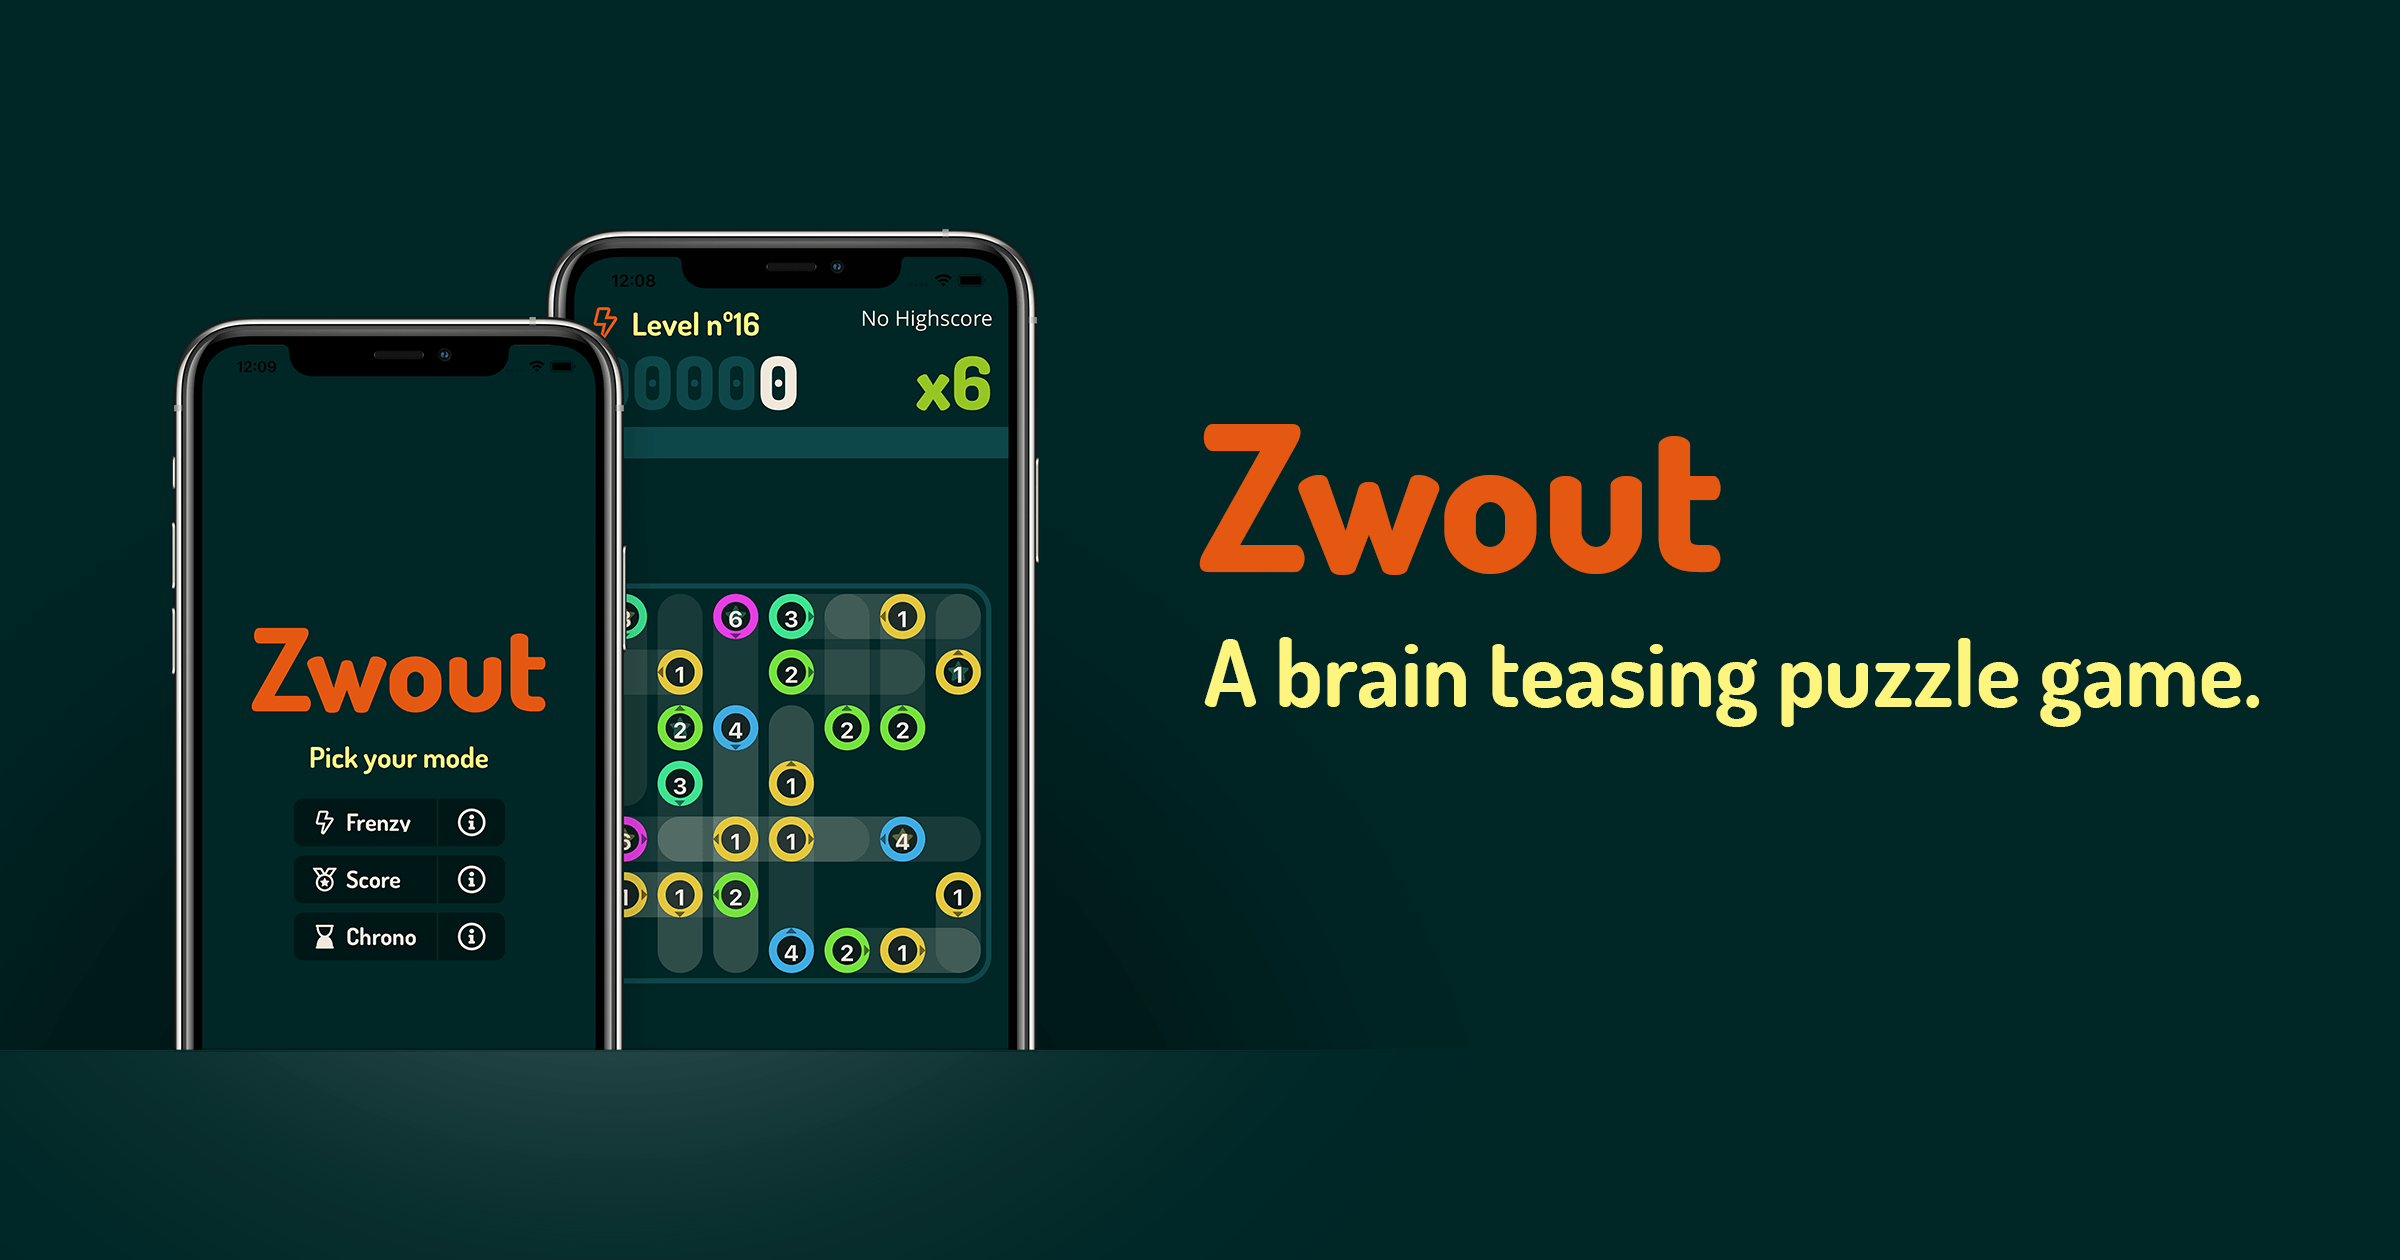
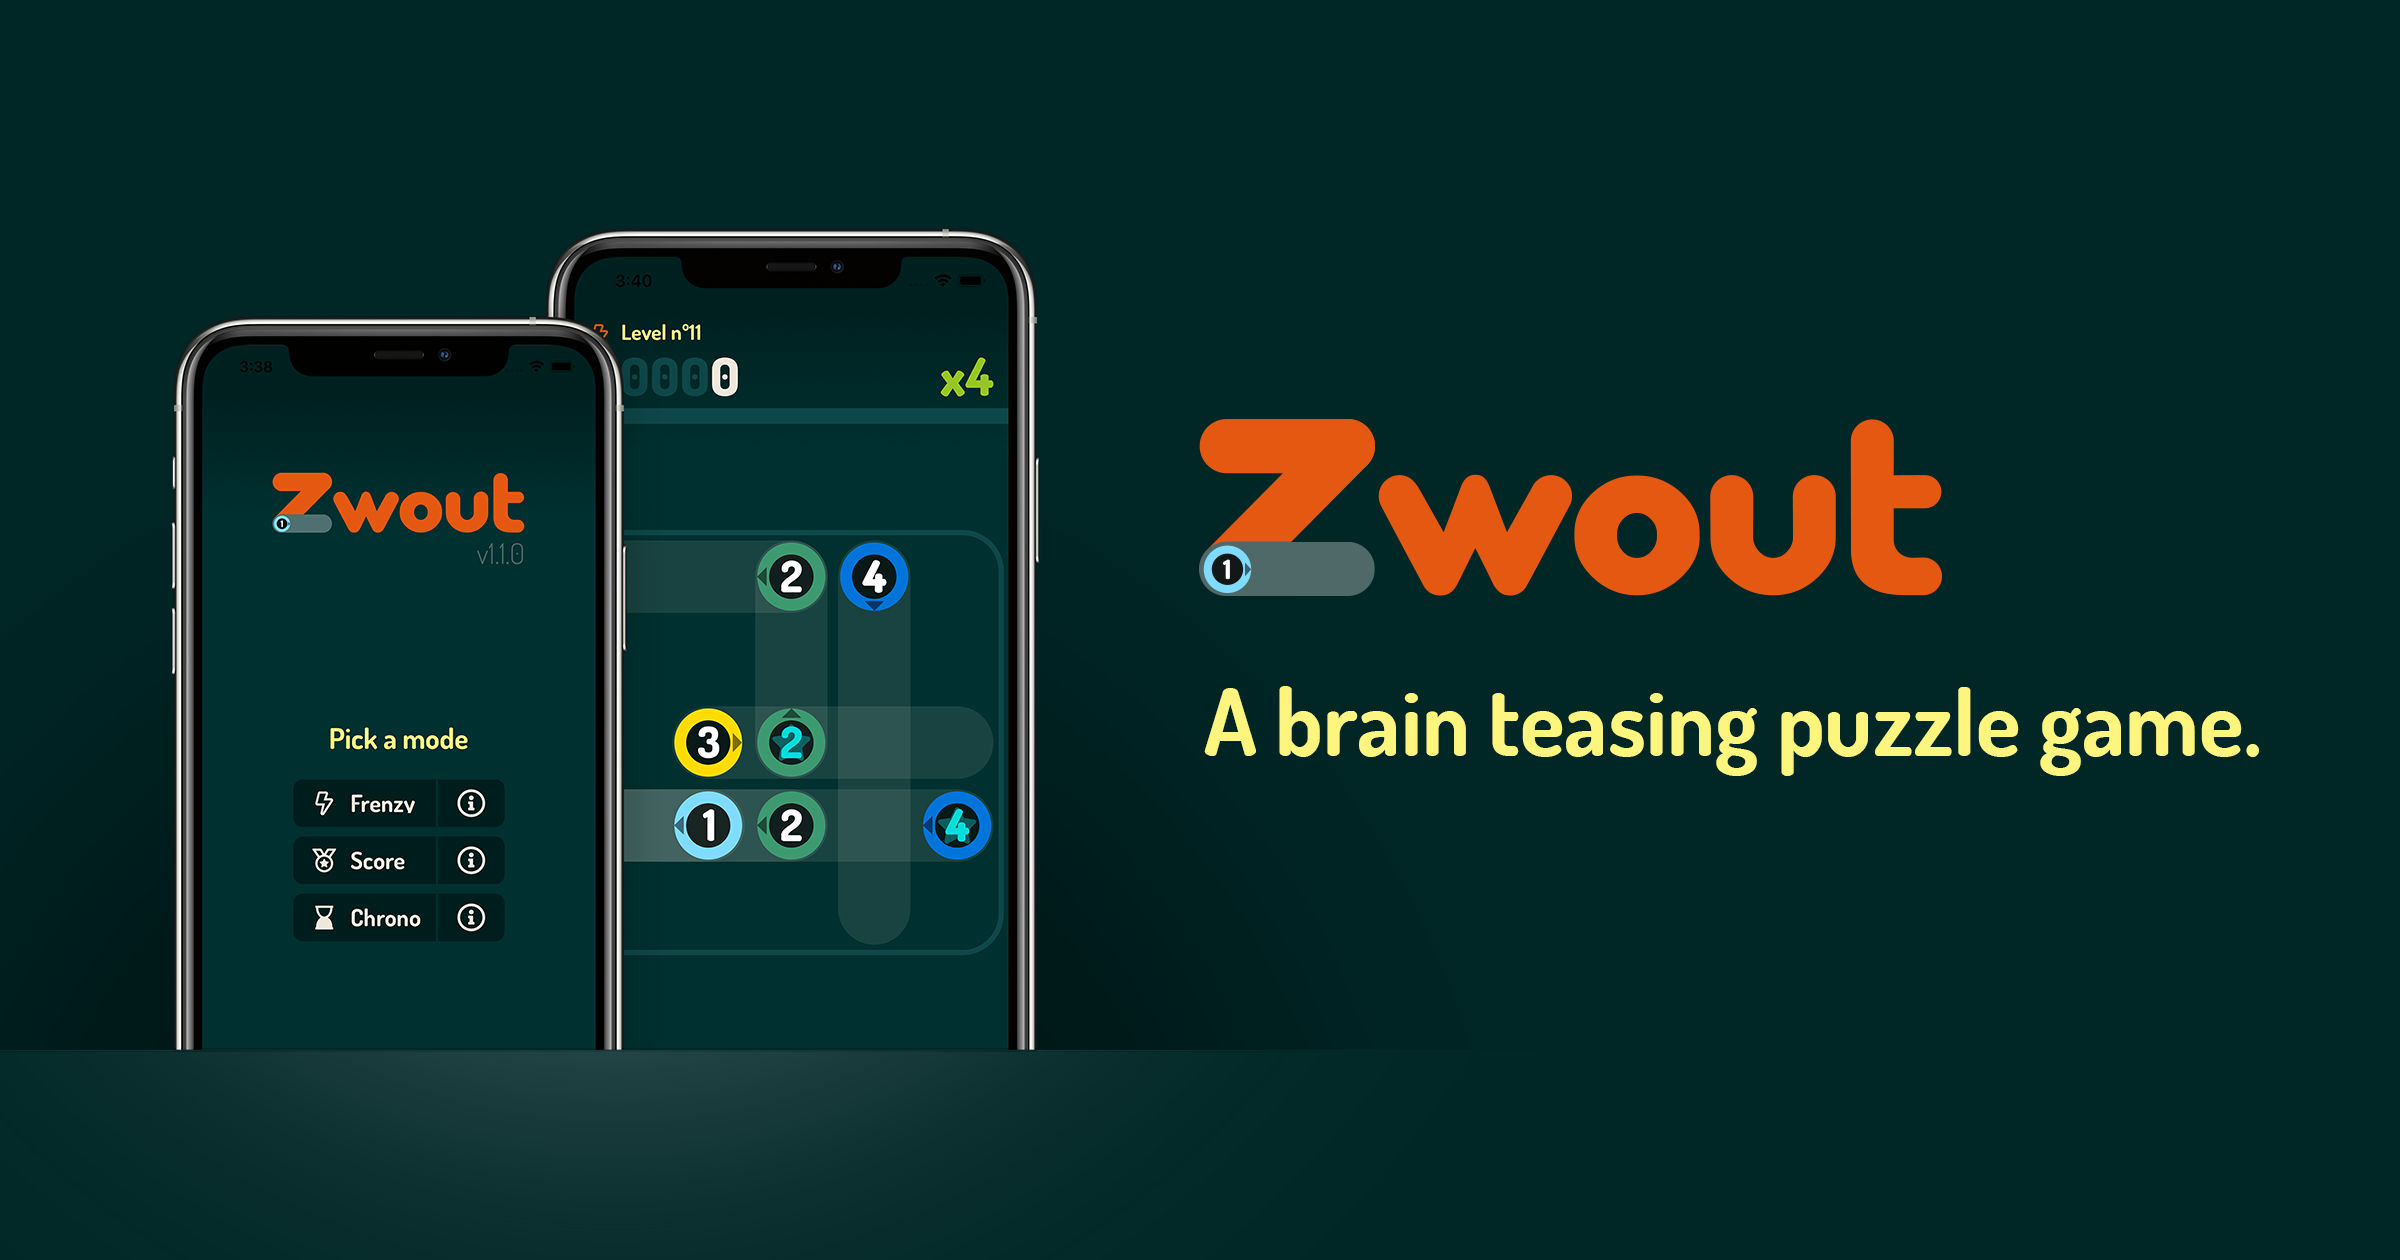
Update website

diff --git a/index.html b/index.html
@@ -51,10 +51,11 @@
         </div>
         <div class="right">
             <div class="stores">
-                <div class="appstore store"></div>
-                <div class="playstore store"></div>
+                <a class="appstore store" href="https://testflight.apple.com/join/MuuLqGss" target="_blank"></a>
+                <a class="playstore store" href="https://play.google.com/apps/testing/com.yoannmoinet.zwout"
+                    target="_blank"></a>
             </div>
-            <h1 class="title">Zwout</h1>
+            <img class="title" src="./assets/logo_full.png" alt="Zwout - puzzle game" />
             <h2 class="subtitle">A brain teasing puzzle game.</h2>
             <p>Easy to play, hard to master.</p>
             <p>With various levels of difficulties and play modes.</p>

diff --git a/tos.html b/tos.html
@@ -26,12 +26,13 @@
 <body>
     <div class="header">
         <a class="titles" href="/">
-            <h1 class="title">Zwout</h1>
+            <img class="title" src="./assets/logo_full.png" alt="Zwout - puzzle game" />
             <h2 class="subtitle">A brain teasing puzzle game.</h2>
         </a>
         <div class="stores">
-            <div class="appstore store"></div>
-            <div class="playstore store"></div>
+            <a class="appstore store" href="https://testflight.apple.com/join/MuuLqGss" target="_blank"></a>
+            <a class="playstore store" href="https://play.google.com/apps/testing/com.yoannmoinet.zwout"
+                target="_blank"></a>
         </div>
     </div>
     <div class="content">

diff --git a/privacy.html b/privacy.html
@@ -27,12 +27,13 @@
 
     <div class="header">
         <a class="titles" href="/">
-            <h1 class="title">Zwout</h1>
+            <img class="title" src="./assets/logo_full.png" alt="Zwout - puzzle game" />
             <h2 class="subtitle">A brain teasing puzzle game.</h2>
         </a>
         <div class="stores">
-            <div class="appstore store"></div>
-            <div class="playstore store"></div>
+            <a class="appstore store" href="https://testflight.apple.com/join/MuuLqGss" target="_blank"></a>
+            <a class="playstore store" href="https://play.google.com/apps/testing/com.yoannmoinet.zwout"
+                target="_blank"></a>
         </div>
     </div>
     <div class="content">

diff --git a/src/index.css b/src/index.css
@@ -19,12 +19,14 @@ body {
     flex-direction: row;
     justify-content: space-around;
     align-items: center;
+    /* outline: 1px solid pink; */
 }
 
 .left {
     padding-right: 30px;
     width: 40%;
     margin-bottom: -120px;
+    /* outline: 1px solid pink; */
 }
 
 .phones {
@@ -49,11 +51,13 @@ body {
 .right {
     padding-left: 30px;
     width: 60%;
+    /* outline: 1px solid pink; */
 }
 
 .title {
-    margin-bottom: 10px;
-    margin-top: 10px;
+    margin-bottom: 30px;
+    margin-top: 50px;
+    width: 100%;
 }
 
 .subtitle {

diff --git a/src/sides.css b/src/sides.css
@@ -28,6 +28,7 @@
 .title {
     margin: 0;
     margin-right: 30px;
+    width: 30%;
 }
 
 .subtitle {
